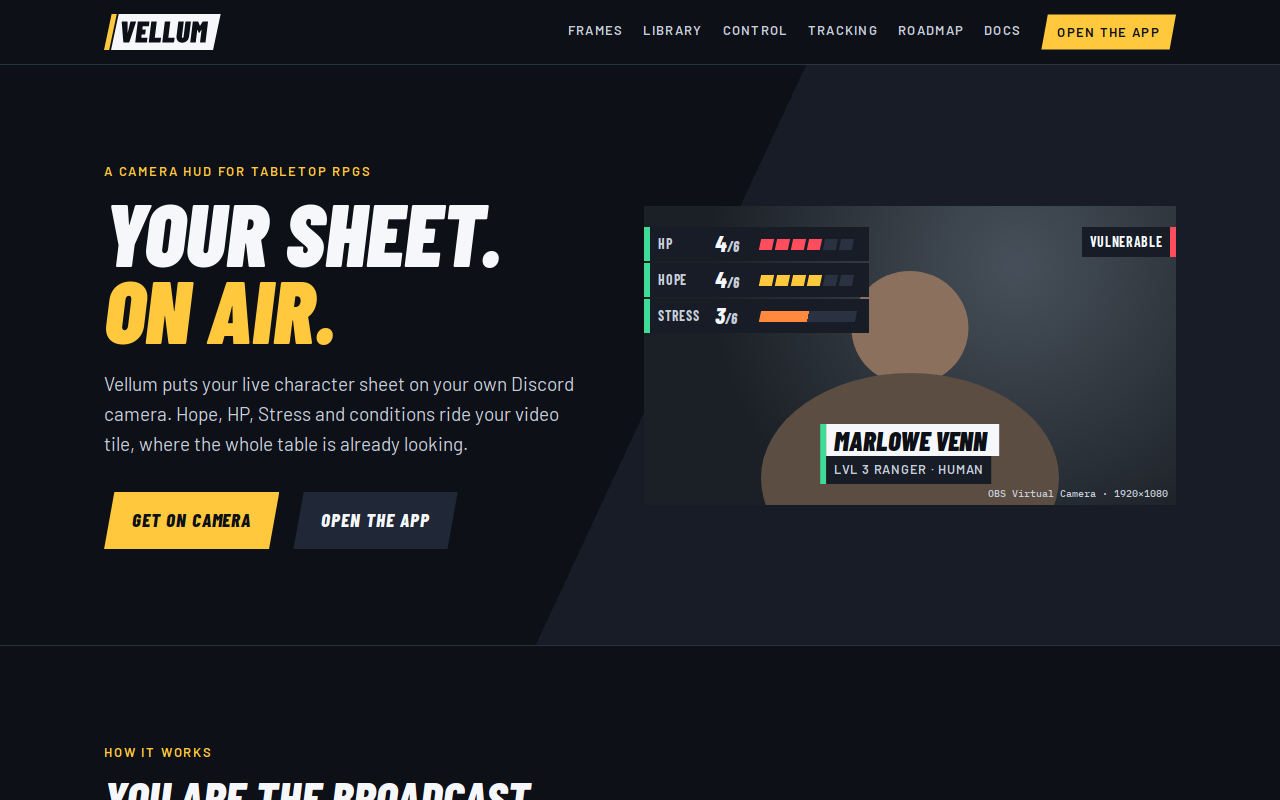
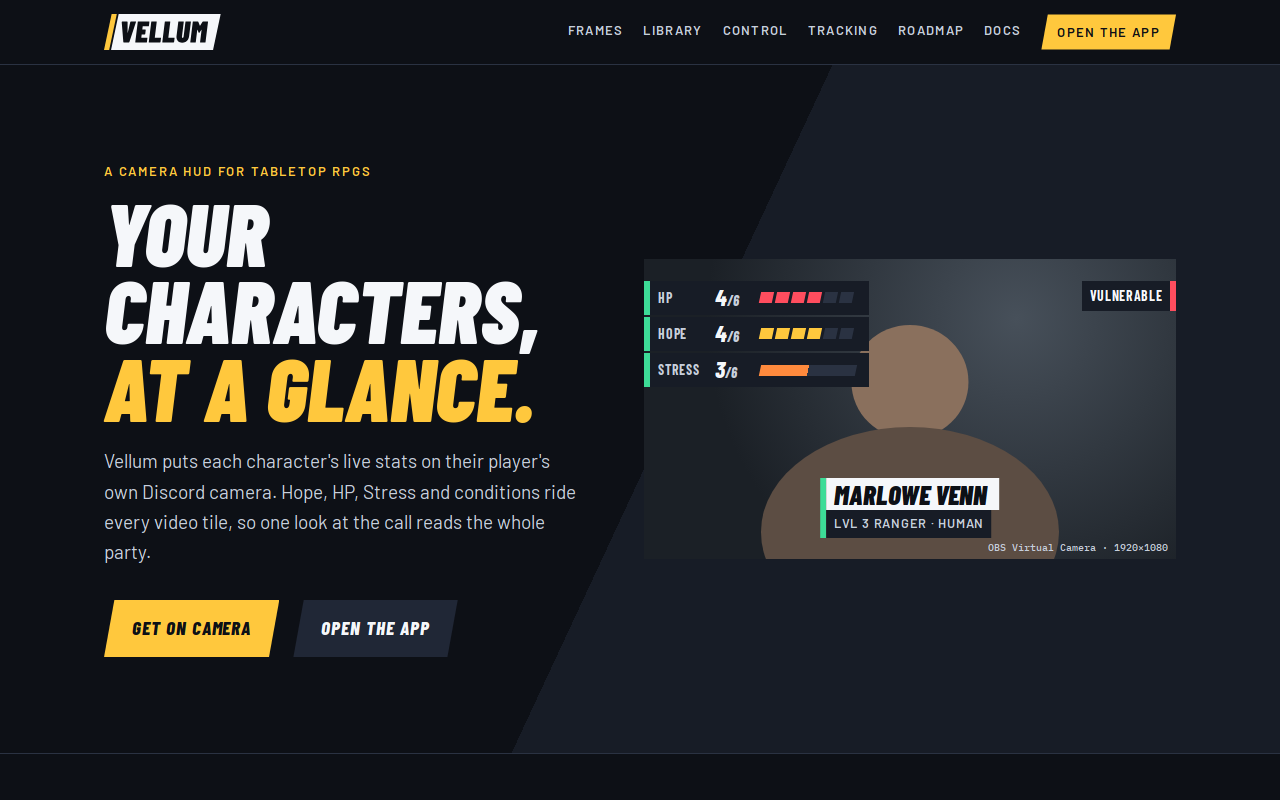
Drop the project card category line, and refresh the tagline (#16)
* Remove the category line from project cards

Claude-Session: https://claude.ai/code/session_013i5gBzvJR727urzLoGN6c6

* Craftsman -> Craftsperson in the tagline

Claude-Session: https://claude.ai/code/session_013i5gBzvJR727urzLoGN6c6

* Refresh project screenshots

* Tagline: "I make", 15 new words per slot, and a rare roll

- I build -> I make
- New subjects (incl. Game Master, Goblin, Grungler) and objects
- About 1 roll in 50, the subject lands on "Undiagnosed, but, come on."
  (it keeps its own full stop rather than doubling it)

Claude-Session: https://claude.ai/code/session_013i5gBzvJR727urzLoGN6c6

* Refresh project screenshots

* Keep the project files untouched so the screenshot job stays out of this PR

Removing the unused kicker field from _projects/*.md made the Screenshots
workflow run on every push and commit fresh PNGs as github-actions[bot].
Those commits don't trigger CI, which left the PR head without a build
check. The field is harmless unused data, so leave it for now.

Claude-Session: https://claude.ai/code/session_013i5gBzvJR727urzLoGN6c6

---------

diff --git a/index.html b/index.html
@@ -4,7 +4,7 @@ layout: default
 <section class="screen intro" aria-label="Introduction">
   <button class="die-btn die-corner" type="button" aria-label="Roll the die: new tagline, project order and likes"><svg class="die" viewBox="0 0 16 16" aria-hidden="true"><rect class="die-face" width="16" height="16" rx="3"/><g class="die-pips"><circle cx="4.5" cy="4.5" r="1.35"/><circle cx="8" cy="4.5" r="1.35"/><circle class="on" cx="11.5" cy="4.5" r="1.35"/><circle class="on" cx="4.5" cy="8" r="1.35"/><circle cx="8" cy="8" r="1.35"/><circle class="on" cx="11.5" cy="8" r="1.35"/><circle cx="4.5" cy="11.5" r="1.35"/><circle class="on" cx="8" cy="11.5" r="1.35"/><circle cx="11.5" cy="11.5" r="1.35"/></g></svg></button>
   <h1 class="mark" id="mark" aria-label="alex jarvis"><span class="alx">al<span class="ghost">e</span>x</span><span class="ghost">&nbsp;</span><span class="jrvs">j<span class="ghost">a</span>rv<span class="ghost">i</span>s</span></h1>
-  <p class="tagline" id="tagline"><span class="roll roll-subject" data-suffix=".">{{ site.data.tagline.subjects | first }}.</span> I build <em class="roll roll-object" data-suffix=".">{{ site.data.tagline.objects | first }}.</em></p>
+  <p class="tagline" id="tagline"><span class="roll roll-subject" data-suffix=".">{{ site.data.tagline.subjects | first }}.</span> I make <em class="roll roll-object" data-suffix=".">{{ site.data.tagline.objects | first }}.</em></p>
 </section>
 
 {%- assign projects = site.projects | sort: "order" -%}
@@ -16,7 +16,6 @@ layout: default
       {%- if p.shot -%}
       <a class="shot" href="{{ p.link }}" tabindex="-1" aria-hidden="true"><img src="{{ '/assets/work/' | append: p.shot | relative_url }}" alt="" width="1280" height="800" decoding="async"></a>
       {%- endif -%}
-      <p class="kicker">{{ p.kicker }}</p>
       <h3>{{ p.title }}</h3>
       <p class="summary">{{ p.summary }}</p>
       <a class="visit" href="{{ p.link }}">Visit {{ p.link_label | default: p.title }} ↗</a>
@@ -61,6 +60,8 @@ layout: default
   (function () {
     var SUBJECTS = {{ site.data.tagline.subjects | jsonify }};
     var OBJECTS  = {{ site.data.tagline.objects | jsonify }};
+    var RARE     = {{ site.data.tagline.rare_subject | jsonify }};
+    var RARE_ODDS = {{ site.data.tagline.rare_odds | default: 50 }};
     var LIKES    = {{ site.data.likes | jsonify }};
     var dice  = [].slice.call(document.querySelectorAll('.die-btn'));
     var subjs = [].slice.call(document.querySelectorAll('.roll-subject'));
@@ -82,7 +83,11 @@ layout: default
     // `ticks` and `curve` differ per reel so the two never land together.
     // a reel's label, plus any punctuation that rides along with it (the
     // tagline's full stops are part of their word)
-    function setText(el, v) { el.textContent = v + (el.getAttribute('data-suffix') || ''); }
+    // (a word that already ends in its punctuation, like the rare roll, keeps it)
+    function setText(el, v) {
+      var sfx = el.getAttribute('data-suffix') || '';
+      el.textContent = sfx && v.slice(-sfx.length) === sfx ? v : v + sfx;
+    }
     function spin(els, opts, finalVal, ticks, base, curve, done) {
       if (opts.length < 2) { els.forEach(function (el) { setText(el, finalVal); }); return done(); }
       var i = 0;
@@ -180,7 +185,9 @@ layout: default
 
     function roll() {
       if (rolling) return;
-      var finalS = pick(SUBJECTS), finalO = pick(OBJECTS);
+      // now and then the subject lands on the rare roll instead
+      var finalS = RARE && Math.random() * RARE_ODDS < 1 ? RARE : pick(SUBJECTS);
+      var finalO = pick(OBJECTS);
       var finalL = likes.map(function (el, i) { return nextLike(i); });
 
       if (reduce.matches) {

diff --git a/assets/css/site.css b/assets/css/site.css
@@ -14,7 +14,7 @@
      fg         headings, links, "alx", the tagline's object
      fg-body    running text (bio, posts)
      fg-muted   secondary UI text (nav, card summaries, deks)
-     fg-subtle  labels, dates, footer, "I build", hover borders
+     fg-subtle  labels, dates, footer, "I make", hover borders
    brand    the signature colour: "jrvs", the tagline's subject, focus rings.
    brand-2  the pop: only the die.
    Project cards and posts also get --accent from their project. */
@@ -44,7 +44,7 @@
   --mark-last: var(--brand);     /* "jrvs" */
   --mark-ghost: var(--fg-subtle); /* the rest of "alex jarvis", on hover */
   --tag-subject: var(--brand);   /* "Enthusiast" */
-  --tag-verb: var(--fg-subtle);  /* "I build" */
+  --tag-verb: var(--fg-subtle);  /* "I make" */
   --tag-object: var(--fg);       /* "stuff" */
   --die: var(--brand-2);
   --focus: var(--brand);
@@ -250,7 +250,7 @@ h3 { font-size: clamp(1.75rem, 3.6vw, 2.25rem); line-height: 1.05; letter-spacin
   line-height: 1.1;
   letter-spacing: -.02em;
 }
-/* tagline: subject, verb ("I build") and object each have a role (see tokens) */
+/* tagline: subject, verb ("I make") and object each have a role (see tokens) */
 .tagline, .bar-tag { color: var(--tag-verb); }
 .tagline .roll-subject, .bar-tag .roll-subject { color: var(--tag-subject); }
 .tagline em, .bar-tag em { font-style: normal; color: var(--tag-object); }
@@ -305,7 +305,6 @@ h3 { font-size: clamp(1.75rem, 3.6vw, 2.25rem); line-height: 1.05; letter-spacin
   transition: transform .25s;
 }
 .shot:hover img { transform: translateY(-4px); }
-.kicker { margin: 0; font: 500 .75rem/1.4 var(--mono); letter-spacing: .08em; text-transform: uppercase; color: var(--accent); }
 .summary { margin: 0; color: var(--fg-muted); max-width: 34rem; font-size: 1rem; line-height: 1.5; }
 .visit {
   font-weight: 600;

diff --git a/_layouts/default.html b/_layouts/default.html
@@ -39,7 +39,7 @@
     <div class="bar-id">
       <a class="brand" href="{{ '/' | relative_url }}"><span class="alx">alx</span><span class="jrvs">jrvs</span></a>
       {%- if page.url == '/' -%}
-      <p class="bar-tag" aria-hidden="true"><span class="roll-subject" data-suffix=".">{{ site.data.tagline.subjects | first }}.</span> I build <em class="roll-object" data-suffix=".">{{ site.data.tagline.objects | first }}.</em></p>
+      <p class="bar-tag" aria-hidden="true"><span class="roll-subject" data-suffix=".">{{ site.data.tagline.subjects | first }}.</span> I make <em class="roll-object" data-suffix=".">{{ site.data.tagline.objects | first }}.</em></p>
       {%- endif -%}
     </div>
     <nav class="nav" aria-label="Primary">

diff --git a/DESIGN.md b/DESIGN.md
@@ -55,7 +55,7 @@ Projects bring their own `accent` (light) and `accent_dark` from
 | `fg`        | headings, links, "alx", the tagline's object ("stuff")          |
 | `fg-body`   | paragraphs: bio, posts                                          |
 | `fg-muted`  | nav links, card summaries, deks, empty states, header buttons   |
-| `fg-subtle` | mono labels, dates, footer, "I build", hover borders            |
+| `fg-subtle` | mono labels, dates, footer, "I make", hover borders            |
 
 ### 2.3 Roles
 
@@ -65,12 +65,12 @@ Projects bring their own `accent` (light) and `accent_dark` from
 | `mark-last`    | `brand`     | "jrvs" in every wordmark                      |
 | `mark-ghost`   | `fg-subtle` | the letters that spell out "alex jarvis" on hover |
 | `tag-subject`  | `brand`     | the tagline's subject ("Enthusiast")          |
-| `tag-verb`     | `fg-subtle` | "I build"                                     |
+| `tag-verb`     | `fg-subtle` | "I make"                                     |
 | `tag-object`   | `fg`        | the tagline's object ("stuff")                |
 | `die`          | `brand-2`   | both dice (splash corner, header)             |
 | `focus`        | `brand`     | keyboard focus rings                          |
 | `nav-active`   | `brand`     | underline under the current section's header link |
-| `accent`       | project     | card kicker, "Visit" underline, post links    |
+| `accent`       | project     | "Visit" underline, post links                 |
 
 ### 2.4 Contrast (WCAG, against `surface`)
 
@@ -91,7 +91,7 @@ Every text token clears AA (4.5:1). Keep it that way when re-skinning.
 
 - **Familjen Grotesk** (400–700) for everything. Display sizes use weight
   700 with tight negative tracking.
-- **IBM Plex Mono** (400/500) for kickers, labels, dates and code. Labels are
+- **IBM Plex Mono** (400/500) for labels, dates and code. Labels are
   uppercase with `.08em` tracking.
 
 | Style           | Size                                    | Weight | Tracking |
@@ -108,8 +108,10 @@ Every text token clears AA (4.5:1). Keep it that way when re-skinning.
 
 **Copy rules**
 
-- The tagline is always "*Subject*. I build *object*." with real full stops.
+- The tagline is always "*Subject*. I make *object*." with real full stops.
   Each full stop belongs to the word before it: same colour, and it rolls with it.
+  About 1 roll in 50 lands the subject on the rare "Undiagnosed, but, come on."
+  (`_data/tagline.yml`), which brings its own full stop.
 - Wordmark: lowercase `alxjrvs`, split as alx/jrvs, and never restyled. The
   splash wordmark spells out "alex jarvis" on hover, with the extra letters in grey.
 - Vellum is a "TTRPG" tool. Never name a specific game system for it.
@@ -180,9 +182,9 @@ animations and the pip flicker. The content still changes, but instantly.
 - **Header:** floating glass bar with the wordmark, the tagline copy, nav, the
   theme toggle and the die. On the home page it's hidden until the splash
   recedes into it.
-- **Project card:** screenshot (16:10, or 4:3 on phones), mono kicker in the
-  project accent, title, summary in `fg-muted`, and a "Visit … ↗" link with an
-  accent underline.
+- **Project card:** screenshot (16:10, or 4:3 on phones), title, summary in
+  `fg-muted`, and a "Visit … ↗" link with an accent underline. No category
+  label above the title.
 - **Back-to-top FAB:** round, 1px `line` border, `fg-muted` arrow.
 - **Favicon:** a curved "j" spelled in die pips on a 3×3 grid: only the four
   pips that form the j, in `brand`, on a dark `surface` tile. It's

diff --git a/README.md b/README.md
@@ -49,7 +49,6 @@ summary: Two sentences for the card.
 link: https://example.com     # the live site
 link_label: example.com
 shot: example.png             # in assets/work/, captured by the Screenshots workflow
-kicker: Category · what it is
 accent: "#1f5fbf"             # accent on the light theme
 accent_dark: "#7fb0ff"        # accent on the dark theme
 ---
@@ -76,7 +75,7 @@ empty state. Publish one post and they appear. A post with `project:` links to t
 
 ## Design notes
 
-- **Type**: Familjen Grotesk (700 for display, tight tracking), IBM Plex Mono for kickers and dates.
+- **Type**: Familjen Grotesk (700 for display, tight tracking), IBM Plex Mono for labels and dates.
 - **Colour**: see [DESIGN.md](DESIGN.md) for the palette, roles and the rest of the design language.
 - **Header**: hidden on the first screen; it slides in as you scroll while the wordmark shrinks
   into its brand slot. Without JS it's simply always there.
